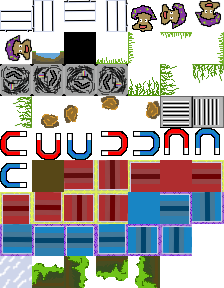
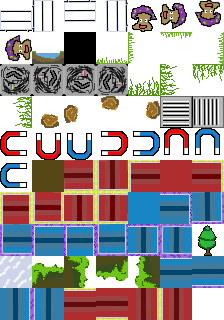
[UPD] Tilemap

diff --git a/Assets/Material/Tilemap/AllTiles.tsx b/Assets/Material/Tilemap/AllTiles.tsx
@@ -1,5 +1,5 @@
 <?xml version="1.0" encoding="UTF-8"?>
-<tileset version="1.2" tiledversion="1.3.2" name="AllTiles" tilewidth="32" tileheight="32" tilecount="61" columns="0">
+<tileset version="1.2" tiledversion="1.3.2" name="AllTiles" tilewidth="32" tileheight="32" tilecount="69" columns="0">
  <grid orientation="orthogonal" width="1" height="1"/>
  <tile id="0">
   <image width="32" height="32" source="TilemapSources/Barriere.png"/>
@@ -183,5 +183,29 @@
  </tile>
  <tile id="64">
   <image width="32" height="32" source="TilemapSources/sol_terre4.png"/>
+ </tile>
+ <tile id="65">
+  <image width="32" height="32" source="TilemapSources/ground_negative.png"/>
+ </tile>
+ <tile id="66">
+  <image width="32" height="32" source="TilemapSources/ground_negative_bas.png"/>
+ </tile>
+ <tile id="67">
+  <image width="32" height="32" source="TilemapSources/ground_negative_droite.png"/>
+ </tile>
+ <tile id="68">
+  <image width="32" height="32" source="TilemapSources/ground_negative_gauche.png"/>
+ </tile>
+ <tile id="69">
+  <image width="32" height="32" source="TilemapSources/sol__changement_de_temps.png"/>
+ </tile>
+ <tile id="70">
+  <image width="32" height="32" source="TilemapSources/sol__changement_de_temps_bas.png"/>
+ </tile>
+ <tile id="71">
+  <image width="32" height="32" source="TilemapSources/sol__changement_de_temps_droite.png"/>
+ </tile>
+ <tile id="72">
+  <image width="32" height="32" source="TilemapSources/sol__changement_de_temps_gauche.png"/>
  </tile>
 </tileset>
